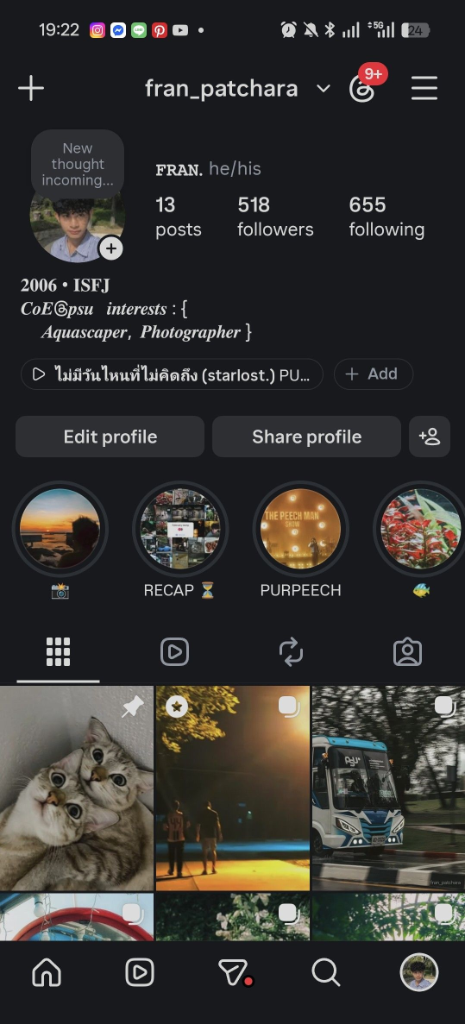
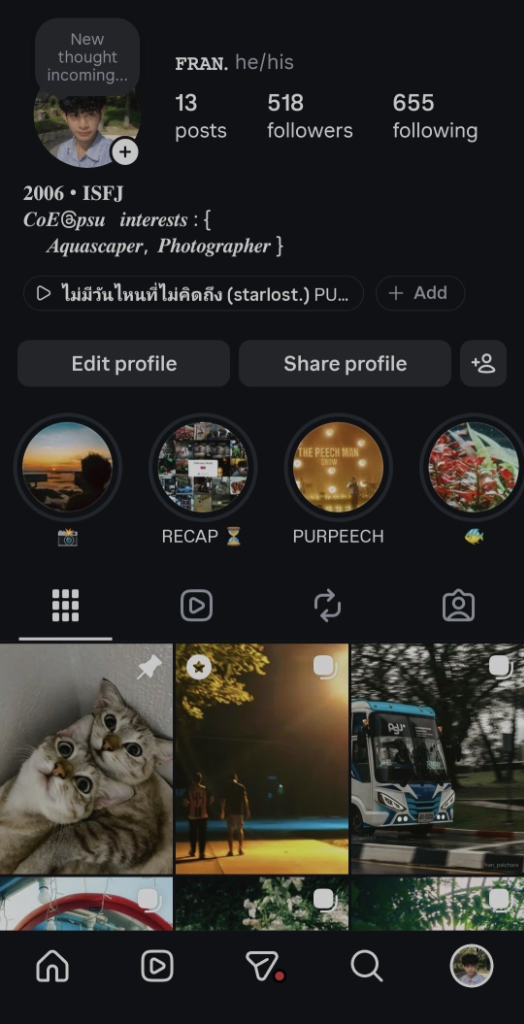
style: change modal animation to fade on desktop and keep slide on mobile

diff --git a/src/components/ExternalLinkModal/ExternalLinkModal.tsx b/src/components/ExternalLinkModal/ExternalLinkModal.tsx
@@ -1,3 +1,4 @@
+import { useState, useEffect } from 'react';
 import { motion, AnimatePresence } from 'framer-motion';
 import styles from './ExternalLinkModal.module.css';
 
@@ -95,6 +96,32 @@ export default function ExternalLinkModal({ isOpen, onClose, link, type, lang }:
   const c = contentData[type]?.[lang] || contentData[type]?.en;
   const common = commonStrings[lang];
 
+  const [isMobile, setIsMobile] = useState(false);
+
+  useEffect(() => {
+    const checkMobile = () => setIsMobile(window.innerWidth <= 768);
+    checkMobile();
+    window.addEventListener('resize', checkMobile);
+    return () => window.removeEventListener('resize', checkMobile);
+  }, []);
+
+  // Define animations based on device type
+  const mobileAnimation = {
+    initial: { y: '100vh' },
+    animate: { y: 0 },
+    exit: { y: '100vh' },
+    transition: { type: 'spring', bounce: 0.15, duration: 0.5 }
+  };
+
+  const desktopAnimation = {
+    initial: { opacity: 0, scale: 0.98 },
+    animate: { opacity: 1, scale: 1 },
+    exit: { opacity: 0, scale: 0.98 },
+    transition: { duration: 0.2, ease: 'easeOut' }
+  };
+
+  const animationProps = isMobile ? mobileAnimation : desktopAnimation;
+
   return (
     <AnimatePresence>
       {isOpen && (
@@ -103,14 +130,11 @@ export default function ExternalLinkModal({ isOpen, onClose, link, type, lang }:
           initial={{ opacity: 0 }}
           animate={{ opacity: 1 }}
           exit={{ opacity: 0 }}
-          transition={{ duration: 0.3 }}
+          transition={{ duration: 0.2 }}
         >
           <motion.div
             className={styles.modal}
-            initial={{ y: '100vh' }}
-            animate={{ y: 0 }}
-            exit={{ y: '100vh' }}
-            transition={{ type: 'spring', bounce: 0.15, duration: 0.5 }}
+            {...animationProps}
           >
             <div className={styles.previewCol}>
               <img src={contentData[type].preview} alt={`${type} preview`} className={styles.previewImage} />
